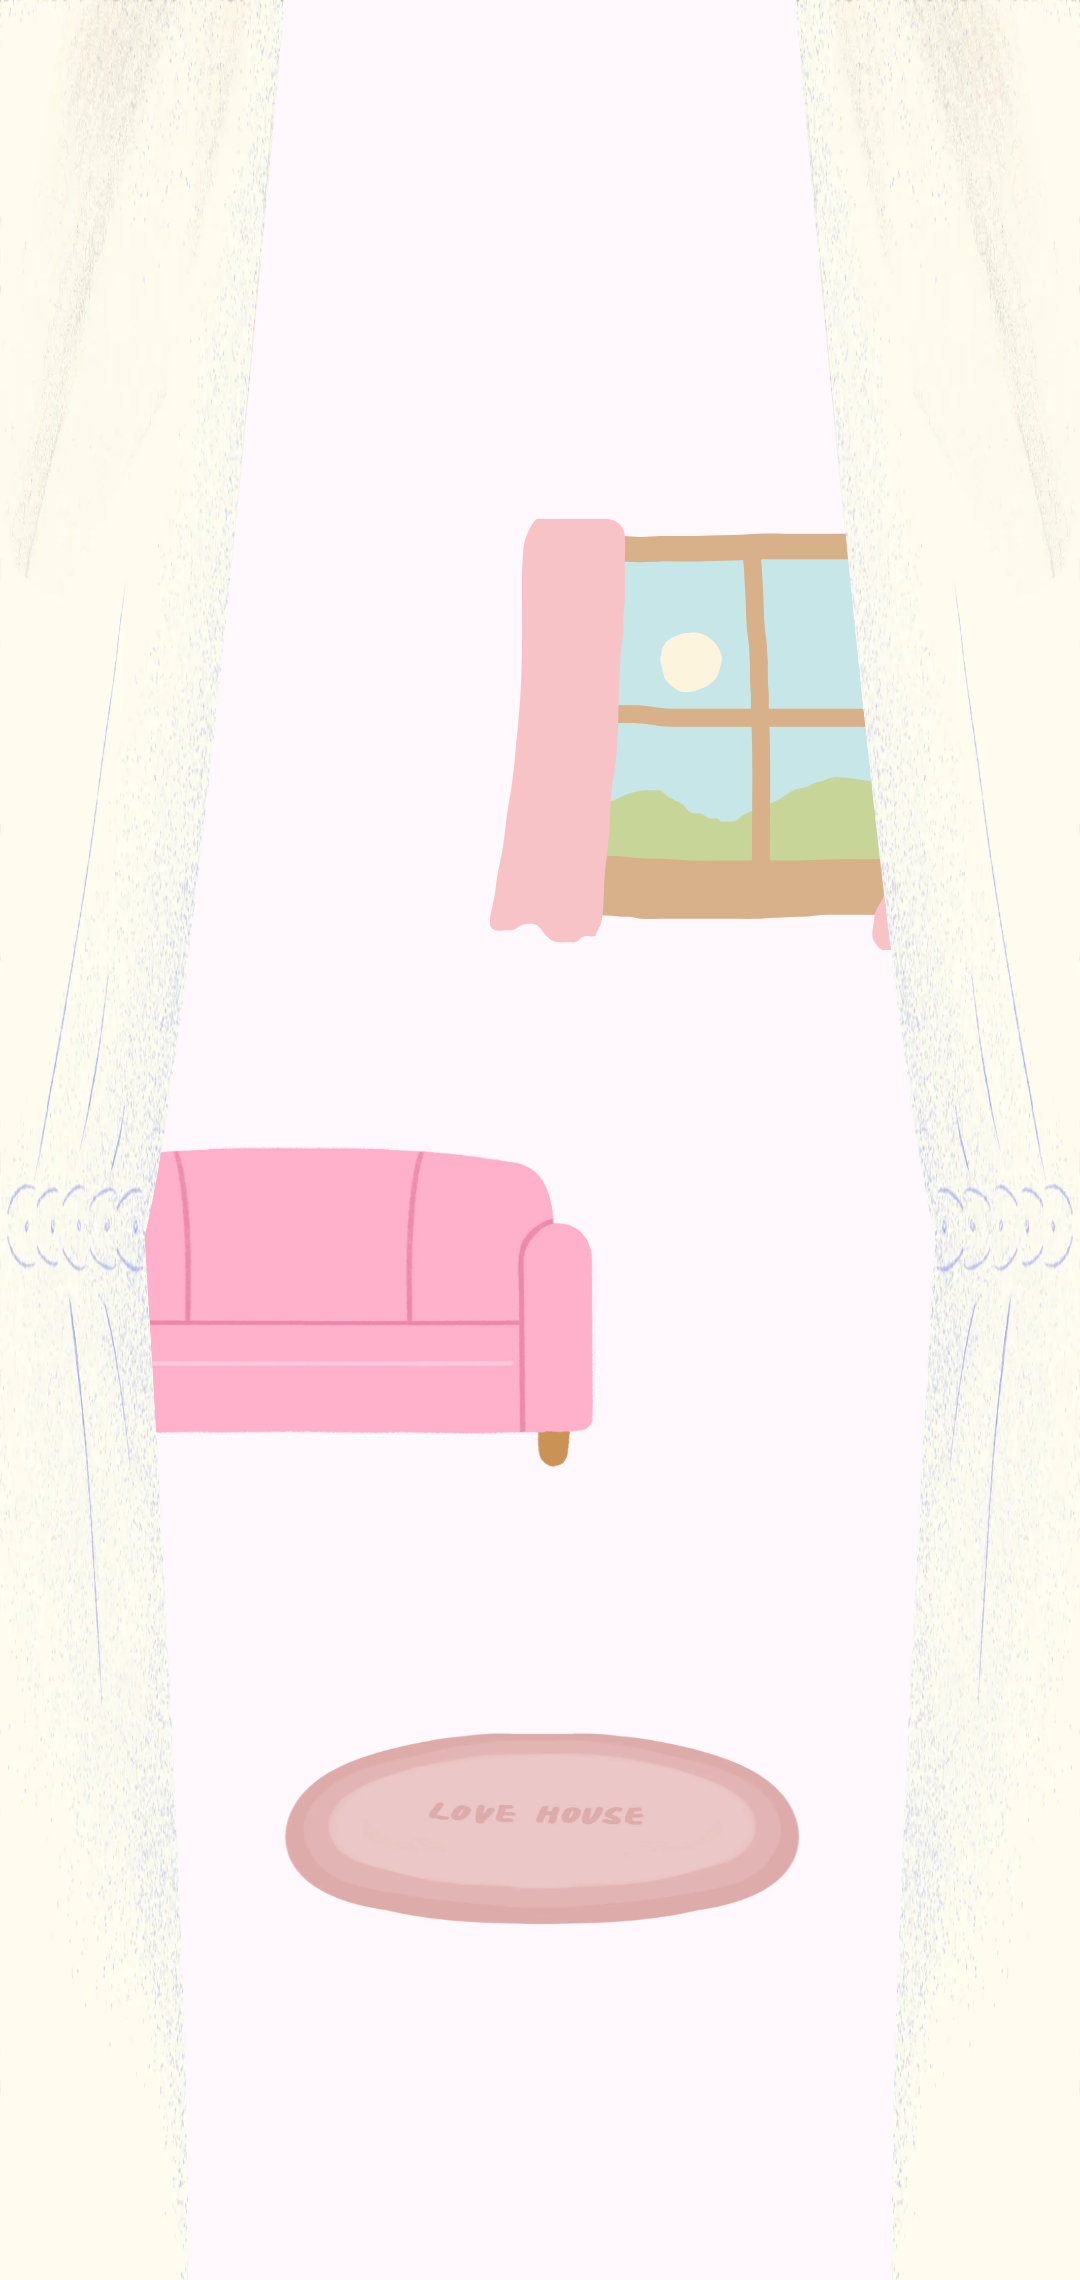
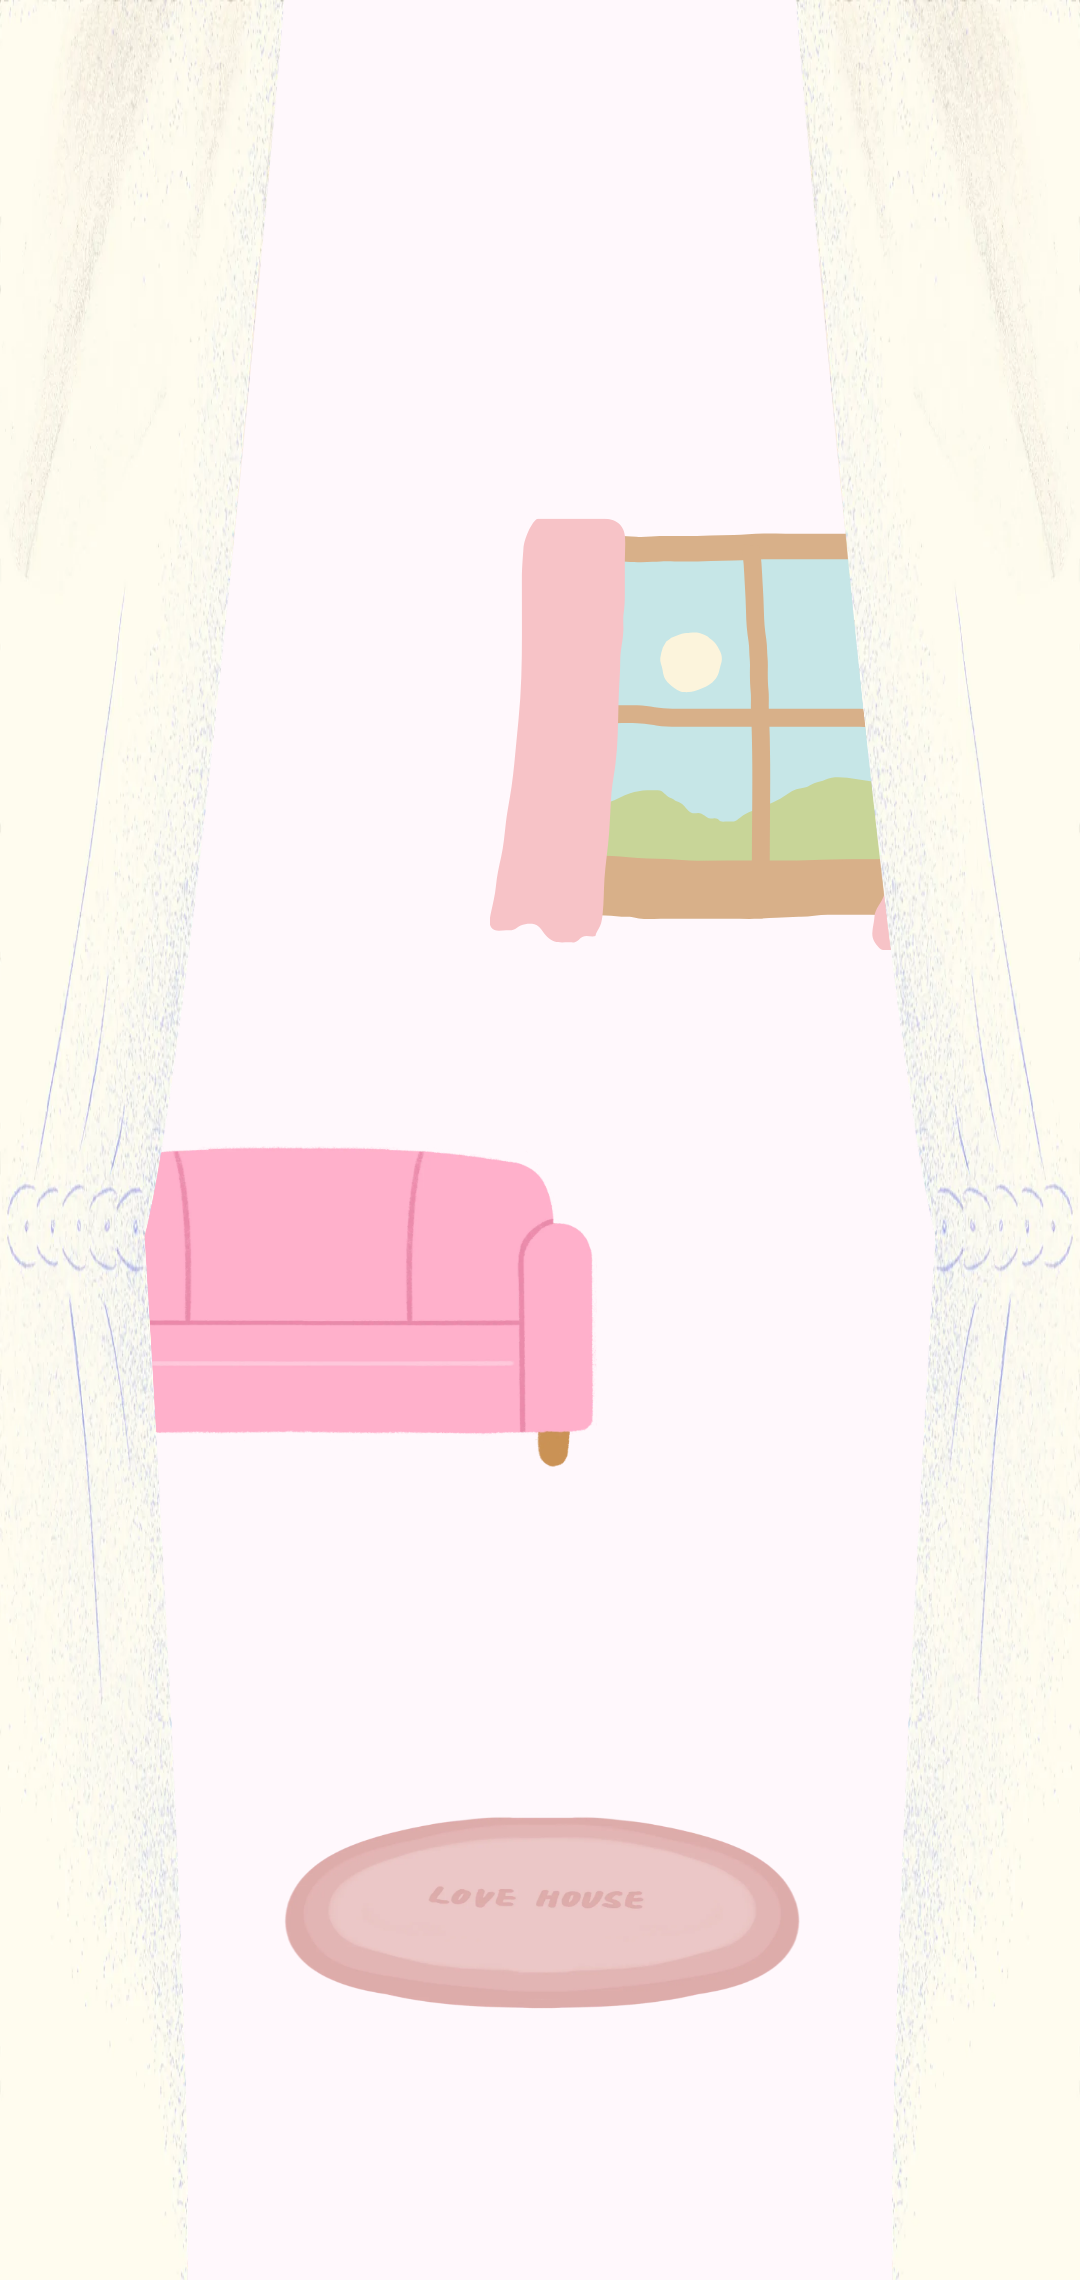
Home 수정 충돌해결

Changed region(s): [[0.2444, 0.7474, 0.7333, 0.9031]]

diff --git a/lib/screens/home_screen.dart b/lib/screens/home_screen.dart
@@ -17,10 +17,8 @@ import 'chat_report_list_screen.dart';
 /// ✅ 커플 상태 Provider
 final coupleStatusProvider = FutureProvider<Map<String, dynamic>>((ref) async {
   final couple = await CoupleService.fetchCoupleStatus();
-  // ✅ 커플 상태가 존재하고 partnerId가 있으면 SessionController에 저장
   if (couple != null && couple['partnerId'] != null) {
-    ref.read(sessionControllerProvider.notifier)
-        .setPartner(couple['partnerId']);
+    ref.read(sessionControllerProvider.notifier).setPartner(couple['partnerId']);
   }
   return couple ?? {'partnerNickname': '파트너 없음'};
 });
@@ -36,35 +34,43 @@ class _HomeScreenState extends ConsumerState<HomeScreen> {
   int _currentIndex = 2;
   late PageController _pageController;
   late Timer _blinkTimer;
-  bool _isEyeOpen = true;
+  late Timer _chatImageTimer;
 
+  bool _isEyeOpen = true;
   final List<String> _eyeImages = [
     'assets/images/ConnectBeatCharacter.png',
     'assets/images/ConnectBeatCharacter2.png',
   ];
+
+  final List<String> _chatImages = [
+    'assets/images/Chat1.png',
+    'assets/images/Chat2.png',
+    'assets/images/Chat3.png',
+  ];
+  int _currentChatImageIndex = 0;
 
   @override
   void initState() {
     super.initState();
     _pageController = PageController(initialPage: _currentIndex);
 
-    // ✅ 1⃣ 유저 정보 불러오기
+    // 1⃣ 유저 정보 로드
     WidgetsBinding.instance.addPostFrameCallback((_) {
       ref.read(userProvider.notifier).fetchUser();
     });
 
-    // ✅ 2⃣ STOMP 개인 큐 연결 (초대 수신 대기)
+    // 2⃣ STOMP 개인 큐 연결
     WidgetsBinding.instance.addPostFrameCallback((_) async {
       final repo = ref.read(chatRepositoryProvider);
       try {
         await repo.connectBase();
-        debugPrint("✅ 개인 큐 연결 완료 (초대 수신 대기 중)");
+        debugPrint("✅ 개인 큐 연결 완료");
       } catch (e) {
         debugPrint("❌ 개인 큐 연결 실패: $e");
       }
     });
 
-    // ✅ 3⃣ 캐릭터 눈 깜빡임 애니메이션
+    // 3⃣ 캐릭터 눈 깜빡임 애니메이션
     WidgetsBinding.instance.addPostFrameCallback((_) async {
       for (var imagePath in _eyeImages) {
         await precacheImage(AssetImage(imagePath), context);
@@ -74,16 +80,25 @@ class _HomeScreenState extends ConsumerState<HomeScreen> {
         setState(() => _isEyeOpen = !_isEyeOpen);
       });
     });
+
+    // 4⃣ 10분 대화 이미지 사이클
+    _chatImageTimer = Timer.periodic(const Duration(seconds: 3), (timer) {
+      if (!mounted) return;
+      setState(() {
+        _currentChatImageIndex = (_currentChatImageIndex + 1) % _chatImages.length;
+      });
+    });
   }
 
   @override
   void dispose() {
     _pageController.dispose();
     _blinkTimer.cancel();
+    _chatImageTimer.cancel();
     super.dispose();
   }
 
-  /// ✅ 대화 세션 생성 및 채팅방 이동 (A측)
+  /// ✅ 대화 세션 생성 및 채팅방 이동
   Future<void> _startChat(BuildContext context, String userId, String partnerId) async {
     final repo = ref.read(chatRepositoryProvider);
     final sessionCtrl = ref.read(sessionControllerProvider.notifier);
@@ -96,31 +111,16 @@ class _HomeScreenState extends ConsumerState<HomeScreen> {
     }
 
     try {
-      // 1⃣ 세션 생성 (POST /api/chat/rooms)
       final ChatRoom room = await repo.startSession();
-      sessionCtrl.setSession(room.chatSessionId); // ✅ 세션ID 저장
-      debugPrint("✅ 세션 생성 완료: ${room.chatSessionId}");
-
-      // 2⃣ 방 구독 (/topic/chat/room/{id})
+      sessionCtrl.setSession(room.chatSessionId);
       await repo.subscribeRoom(chatSessionId: room.chatSessionId);
-      debugPrint("✅ 방 구독 완료: ${room.chatSessionId}");
+      await repo.sendInvite(chatSessionId: room.chatSessionId, inviteeId: partnerId);
 
-      // 3⃣ 초대 전송 (/app/chat/invite)
-      await repo.sendInvite(
-        chatSessionId: room.chatSessionId,
-        inviteeId: partnerId,
-      );
-      debugPrint("💌 초대 전송 완료 → $partnerId");
-
-      // 4⃣ 채팅방 화면으로 이동
       if (context.mounted) {
         Navigator.push(
           context,
           MaterialPageRoute(
-            builder: (_) => ChatRoomScreen(
-              room: room,
-              currentUserId: userId,
-            ),
+            builder: (_) => ChatRoomScreen(room: room, currentUserId: userId),
           ),
         );
       }
@@ -146,10 +146,7 @@ class _HomeScreenState extends ConsumerState<HomeScreen> {
           data: (couple) {
             final partnerNickname = couple['partnerNickname'] ?? '파트너 없음';
             final userId = user['userId'] ?? "unknown";
-
-            // ✅ SessionController에서 partnerId 읽기
-            final sessionState = ref.watch(sessionControllerProvider);
-            final partnerId = sessionState.partnerId ?? "unknown";
+            final partnerId = ref.watch(sessionControllerProvider).partnerId ?? "unknown";
 
             final screens = [
               ChatReportListScreen(coupleId: user['coupleId'] ?? 0),
@@ -160,7 +157,7 @@ class _HomeScreenState extends ConsumerState<HomeScreen> {
                   child: Column(
                     children: [
                       const SizedBox(height: 40),
-                      // 🔹 상단 닉네임 & 커플 정보
+                      // 🔹 닉네임 & 커플 정보
                       Row(
                         mainAxisAlignment: MainAxisAlignment.end,
                         children: [
@@ -194,8 +191,7 @@ class _HomeScreenState extends ConsumerState<HomeScreen> {
                       Row(
                         mainAxisAlignment: MainAxisAlignment.end,
                         children: [
-                          Image.asset('assets/images/ConnectBeat_coin.png',
-                              width: 30, height: 30),
+                          Image.asset('assets/images/ConnectBeat_coin.png', width: 30, height: 30),
                           const SizedBox(width: 8),
                           const Text(
                             '10 개',
@@ -208,27 +204,41 @@ class _HomeScreenState extends ConsumerState<HomeScreen> {
                           ),
                         ],
                       ),
-                      const SizedBox(height: 40),
-                      // ✅ 오늘의 10분 대화 버튼
-                      Center(
-                        child: GestureDetector(
-                          onTap: () => _startChat(context, userId, partnerId),
-                          child: const Text(
-                            '오늘의 10분 대화 하러가기',
-                            style: TextStyle(
-                              fontFamily: 'GowunBatang',
-                              fontSize: 18,
-                              color: Colors.black,
-                              decoration: TextDecoration.underline,
-                              decorationColor: Colors.black,
+                      const Spacer(flex: 2),
+
+                      // 🔹 오늘의 10분 대화 (이미지 + 버튼)
+                      Column(
+                        children: [
+                          GestureDetector(
+                            onTap: () => _startChat(context, userId, partnerId),
+                            child: Image.asset(
+                              _chatImages[_currentChatImageIndex],
+                              width: 120,
+                              height: 120,
+                              fit: BoxFit.contain,
                             ),
                           ),
-                        ),
+                          const SizedBox(height: 8),
+                          GestureDetector(
+                            onTap: () => _startChat(context, userId, partnerId),
+                            child: const Text(
+                              '10분 대화하기',
+                              style: TextStyle(
+                                fontFamily: 'GowunBatang',
+                                fontSize: 15,
+                                color: Colors.black,
+                                decoration: TextDecoration.underline,
+                                decorationColor: Colors.black,
+                              ),
+                            ),
+                          ),
+                        ],
                       ),
-                      const Spacer(),
+
+                      const Spacer(flex: 1),
                       // 🔹 캐릭터
                       Container(
-                        margin: const EdgeInsets.only(bottom: 1),
+                        margin: const EdgeInsets.only(bottom: 16),
                         height: 350,
                         child: Center(
                           child: Image.asset(
@@ -237,6 +247,7 @@ class _HomeScreenState extends ConsumerState<HomeScreen> {
                           ),
                         ),
                       ),
+                      const Spacer(flex: 1),
                     ],
                   ),
                 ),
@@ -256,9 +267,7 @@ class _HomeScreenState extends ConsumerState<HomeScreen> {
                   ),
                   child: PageView(
                     controller: _pageController,
-                    onPageChanged: (index) {
-                      setState(() => _currentIndex = index);
-                    },
+                    onPageChanged: (index) => setState(() => _currentIndex = index),
                     children: screens,
                   ),
                 ),
@@ -276,16 +285,12 @@ class _HomeScreenState extends ConsumerState<HomeScreen> {
               ),
             );
           },
-          loading: () =>
-          const Scaffold(body: Center(child: CircularProgressIndicator())),
-          error: (err, st) => const Scaffold(
-              body: Center(child: Text('커플 정보를 불러올 수 없습니다.'))),
+          loading: () => const Scaffold(body: Center(child: CircularProgressIndicator())),
+          error: (err, st) => const Scaffold(body: Center(child: Text('커플 정보를 불러올 수 없습니다.'))),
         );
       },
-      loading: () =>
-      const Scaffold(body: Center(child: CircularProgressIndicator())),
-      error: (err, st) =>
-      const Scaffold(body: Center(child: Text('사용자 정보를 불러올 수 없습니다.'))),
+      loading: () => const Scaffold(body: Center(child: CircularProgressIndicator())),
+      error: (err, st) => const Scaffold(body: Center(child: Text('사용자 정보를 불러올 수 없습니다.'))),
     );
   }
 }

diff --git a/lib/main.dart b/lib/main.dart
@@ -47,7 +47,7 @@ class ConnectBeatApp extends StatelessWidget {
       debugShowCheckedModeBanner: false,
       theme: ThemeData(
         scaffoldBackgroundColor: const Color(0xFFFFF8FC),
-        fontFamily: 'Pretendard',
+        fontFamily: 'GowunBatang',
         textTheme: const TextTheme(
           bodyMedium: TextStyle(color: Colors.black),
         ),

diff --git a/lib/routes/app_router.dart b/lib/routes/app_router.dart
@@ -1,7 +1,6 @@
 import 'package:flutter/material.dart';
 
 // ✅ 추가된 화면 import
-import 'package:connectbeat/screens/topic_select_screen.dart';
 import 'package:connectbeat/screens/character_screen.dart';
 
 // 화면 import
